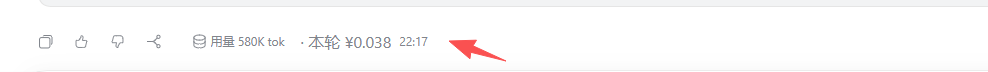
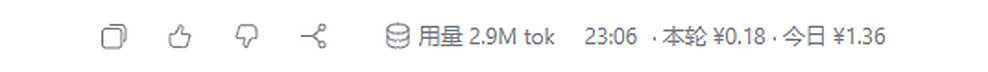
docs: refresh footer screenshot with the new post-clock layout

Changed region(s): [[0.0304, 0.3056, 0.9109, 0.8333], [0.0304, 0.0833, 1.0, 0.1111], [0.2126, 0.3333, 0.2733, 0.4444]]

diff --git a/README.md b/README.md
@@ -8,6 +8,8 @@
 
 字号跟随页脚时间，与「20:26」等大，不额外抢眼。
 
+![页脚效果](assets/footer.png)
+
 独立插件：不读取、不修改、也不依赖 `dsh-whale-widget`；成本表、存储、路由都是自己的，
 所以鲸鱼插件被禁用、升级甚至卸载都不会影响它。
 
